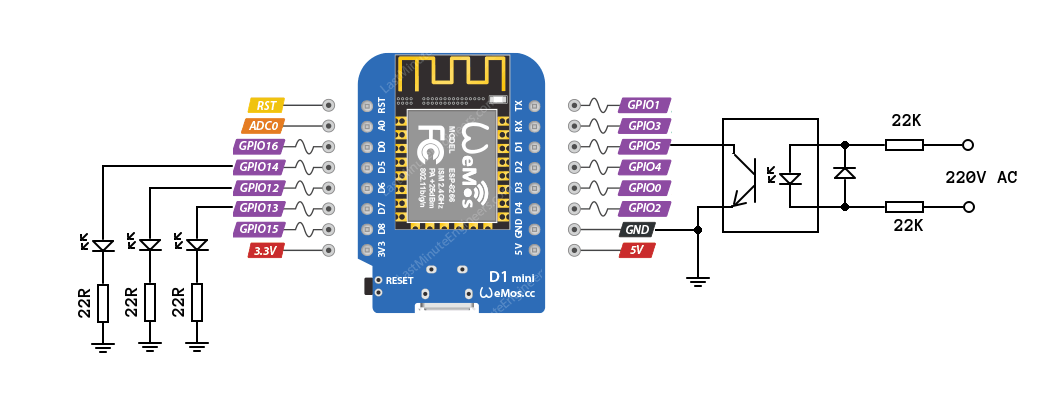
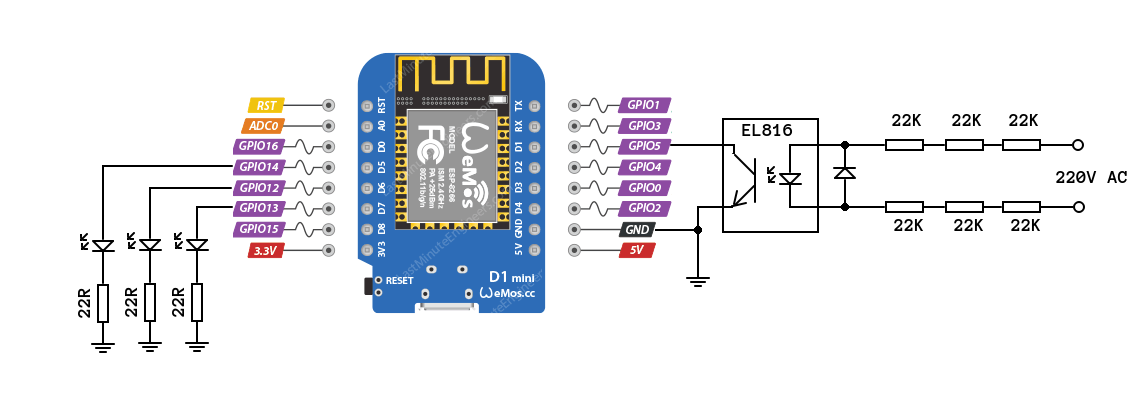
Update

diff --git a/http_server.cpp b/http_server.cpp
@@ -50,6 +50,7 @@ const char INDEX_HTML_1[] PROGMEM = R"(
   <button class="btn_cfg" type="button" onclick="location.href='/selectap';">Configure wifi</button>
   <span id='status'></span>
   <br/>
+  <a href="https://github.com/ujagaga/esp8266_IEC104_emulator" target="_blank">github.com/ujagaga/esp8266_IEC104_emulator</a>
 </div>
 <script>
   function checkIp(){

diff --git a/README.md b/README.md
@@ -31,6 +31,10 @@ carries interrupt-jitter noise (roughly ±0.05-0.2Hz per reading on ESP8266
 under WiFi activity). This is a demo of the IEC104 point, not a precision
 instrument.
 
+## Schematic
+
+![Schematic](schematic.png)
+
 ## Functionality
 
 ### WiFi
